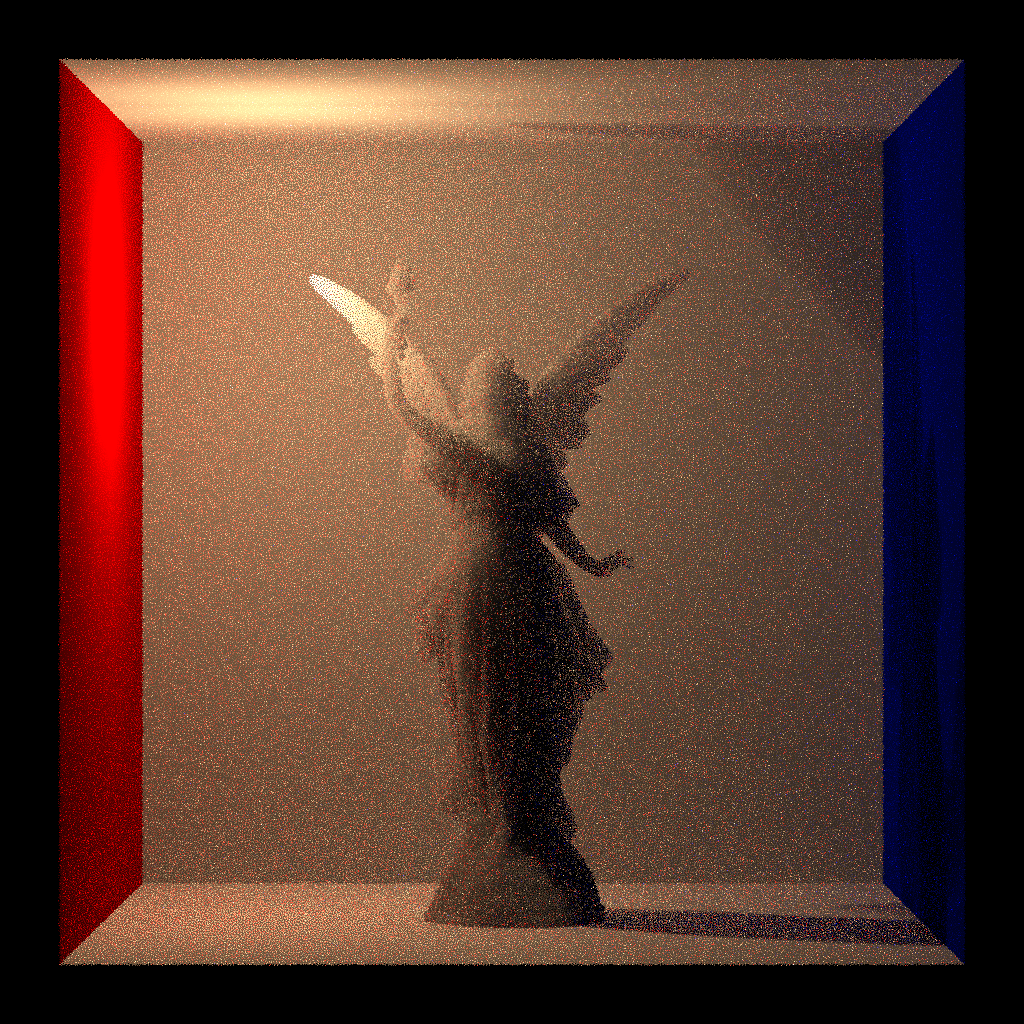
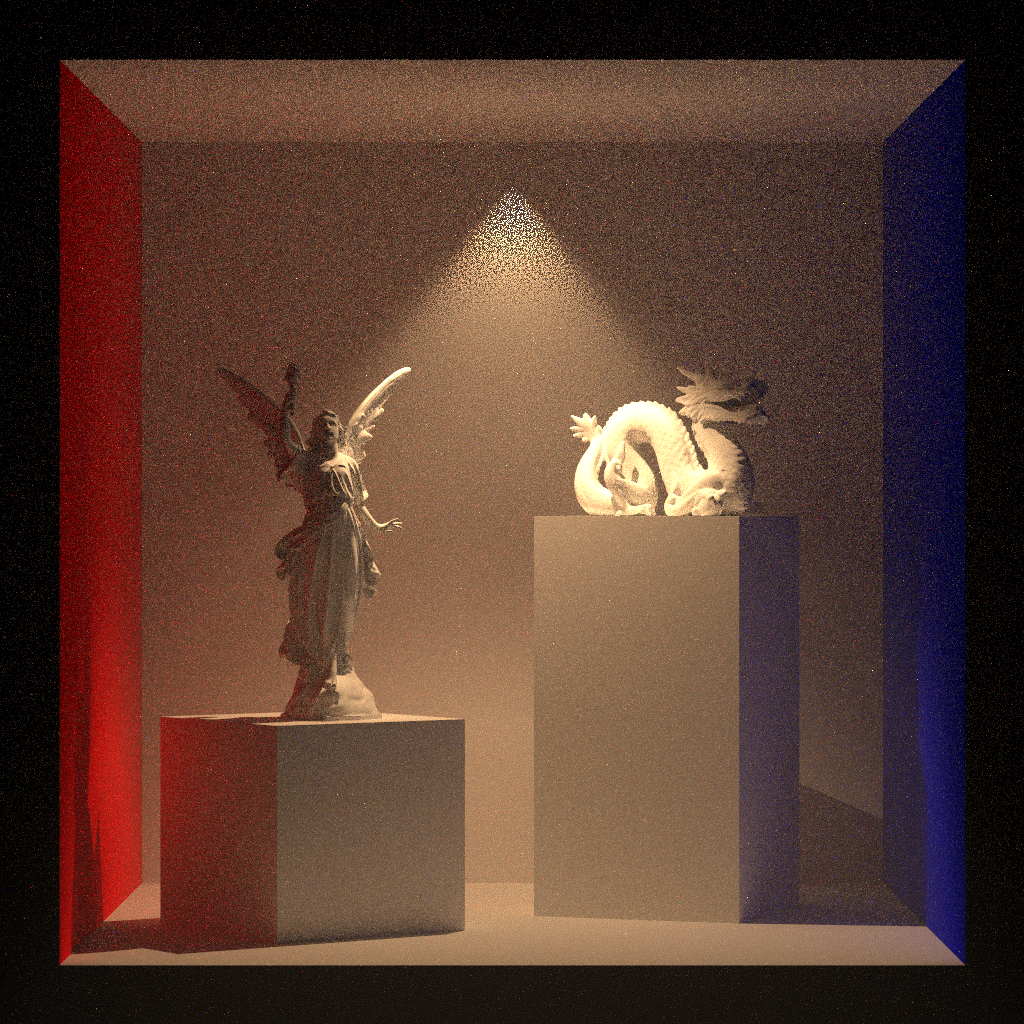
spotlights

diff --git a/lambda_demo/main.cpp b/lambda_demo/main.cpp
@@ -30,6 +30,7 @@ It briefly runs over:
 #include <lighting/MeshLight.h>
 #include <lighting/EnvironmentLight.h>
 #include <lighting/PointLight.h>
+#include <lighting/Spotlight.h>
 #include <render/MosaicRenderer.h>
 #include <utility/Memory.h>
 #include <image/processing/PostProcessing.h>
@@ -122,8 +123,8 @@ int main() {
 	sg::MixBxDFNode *mixMat = graphArena.New<sg::MixBxDFNode>(&fresBSDF->outputSockets[0], &diffuse->outputSockets[0], &valueNoise->outputSockets[0]);
 
 	//Setup a volumetric medium
-	const Spectrum sigmaA = Spectrum(10);
-	const Spectrum sigmaS = Spectrum(15);
+	const Spectrum sigmaA = Spectrum(.1);
+	const Spectrum sigmaS = Spectrum(.1);
 	std::unique_ptr<Medium> med(new HomogeneousMedium(sigmaA, sigmaS));
 	std::unique_ptr<HenyeyGreenstein> phase(new HenyeyGreenstein);
 	phase->g = 0;
@@ -142,7 +143,7 @@ int main() {
 
 	Material glass_material;
 	glass_material.bxdf = fresBSDF;
-	glass_material.mediaBoundary.interior = med.get();
+	//glass_material.mediaBoundary.interior = med.get();
 	glass_material.BuildSocketMap();
 
 	Material diffuse_material2;
@@ -155,7 +156,7 @@ int main() {
 
 	//Import an asset using an AssetImporter object
 	AssetImporter ai;
-	ai.Import("../content/lucy.obj");
+	ai.Import("../content/box_artifacts.obj");
 
 	//Push the mesh objects to the resource manager...
 	ai.PushToResourceManager(&resources, (ImportOptions)(IMP_MESHES));
@@ -163,7 +164,7 @@ int main() {
 	//...and add all the meshes from that asset
 	for (auto &it : resources.objectPool.pool) {
 		//it.second->material = MaterialImport::GetMaterial(ai.scene, &resources, it.first);
-		it.second->material = &volume_scatter_material;
+		it.second->material = &diffuse_material2;
 		scene.AddObject(it.second);
 	}
 
@@ -179,17 +180,17 @@ int main() {
 	scene.hasVolumes = true;
 
 	//Import another asset file
-	ai.Import("../content/box_empty.obj");
+	//ai.Import("../content/box_artifacts.obj");
 
 	//You can manually make a new mesh object that isn't owned...
-	TriangleMesh plane;
+	//TriangleMesh plane;
 	//...and then manually load vertex data into from Assimp scene class
-	MeshImport::LoadMeshVertexBuffers(ai.scene->mMeshes[0], &plane);
-	plane.material = &diffuse_material2;
-	plane.smoothNormals = false;
+	//MeshImport::LoadMeshVertexBuffers(ai.scene->mMeshes[0], &plane);
+	//plane.material = &diffuse_material2;
+	//plane.smoothNormals = false;
 	
 	//Add it to the scene
-	scene.AddObject(&plane);
+	//scene.AddObject(&plane);
 
 	//Setup a mesh light in a similar way
 	ai.Import("../content/box_light_2.obj");
@@ -202,7 +203,7 @@ int main() {
 	MeshImport::LoadMeshVertexBuffers(ai.scene->mMeshes[0], &boundsMesh);
 	boundsMesh.material = &volume_scatter_material;
 
-	//scene.AddObject(&boundsMesh);
+	scene.AddObject(&boundsMesh);
 
 	//Release the asset importer to save some memory
 	ai.Release();
@@ -215,8 +216,8 @@ int main() {
 	//Construct a light from the light mesh.
 	//The light will automatically be assigned the material of the mesh object.
 	//MeshLight light(&lightMesh);
-	PointLight light;
-	light.position = { .6,1.5,0 };
+	Spotlight light({ 0,1.8,0 }, {0,-1,0}, PI * .3, PI * .2);
+	light.position = { 0,1.8,0 };
 
 	//Setup the light's emission using a shader graph...
 	sg::ScalarInput *temp1 = graphArena.New<sg::ScalarInput>(3500);
@@ -225,7 +226,7 @@ int main() {
 	//Set the lights emission socket to the blackbody output socket
 	light.emission = &blckInpt1->outputSockets[0];
 	//Give the light an intensity (will be shader graph compatible in future)
-	light.intensity = 2;
+	light.intensity = 14;
 
 	//Add it to the scene - the associated light object will be added to scene.lights automatically
 	scene.AddLight(&light);
@@ -234,7 +235,7 @@ int main() {
 	//Make environment lighting
 	Texture envMap;
 	envMap.interpolationMode = InterpolationMode::INTERP_NEAREST;
-	envMap.LoadImageFile("demo_content/autumn_park_2k.hdr");
+	envMap.LoadImageFile("../content/sunset_in_the_chalk_quarry_4k.hdr");
 	//Shader graph currently not supported on environment lights
 	EnvironmentLight ibl(&envMap);
 	ibl.intensity = 0;
@@ -266,7 +267,7 @@ int main() {
 
 
 	//Construct a camera with a circular aperture of size .03 world units
-	CircularAperture aperture2(0.03);
+	CircularAperture aperture2(0.0);
 	ThinLensCamera cam(Vec3(0, 1, 10), film.filmData.GetWidth(), film.filmData.GetHeight(), 10, &aperture2);
 	//Set focus to 10 units infront of camera
 	cam.focalLength = 10;

diff --git a/src/lighting/Spotlight.cpp b/src/lighting/Spotlight.cpp
@@ -3,6 +3,7 @@
 LAMBDA_BEGIN
 
 Spotlight::Spotlight() {
+	position = Vec3(0, 0, 0);
 	axis = Vec3(0, -1, 0);
 	cosConeAngle = std::cos(PI * .5);
 	cosFalloffStart = std::cos(PI * .4);
@@ -10,8 +11,56 @@ Spotlight::Spotlight() {
 	emission = nullptr;
 }
 
-Spotlight::Spotlight(const Vec3 &_axis, const Real _coneAngle, const Real _falloffStart) {
+Spotlight::Spotlight(const Vec3 &_position, const Vec3 &_axis, const Real _coneAngle, const Real _falloffStart) : Spotlight() {
+	position = _position;
+	axis = _axis;
+	cosConeAngle = std::cos(_coneAngle);
+	cosFalloffStart = std::cos(_falloffStart);
+}
 
+Real Spotlight::Falloff(const Vec3 &_w) const {
+	const Real cosTheta = maths::Dot(_w, axis);
+	if (cosTheta < cosConeAngle) return 0;
+	if (cosTheta > cosFalloffStart) return 1;
+	const Real d = (cosTheta - cosConeAngle) / (cosFalloffStart - cosConeAngle);
+	return (d * d) * (d * d);
+}
+
+Spectrum Spotlight::Sample_Li(ScatterEvent &_event, Sampler *_sampler, Real &_pdf) const {
+	const Vec3 p = _event.hit->point + _event.hit->normalG * SURFACE_EPSILON * _event.sidedness;
+	Spectrum Tr(1);
+	if (PointMutualVisibility(p, position, _event, *_event.scene, *_sampler, &Tr)) {
+		_pdf = 1;
+		const Real dist2 = maths::DistSq(position, _event.hit->point);
+		_event.wiL = _event.ToLocal(_event.wi);	//Localise the sampled direction, wi, given by PointMutualVisibility()
+		return emission->GetAsSpectrum(_event) * Tr * Falloff(-_event.wi) * intensity / dist2;
+	}
+	_pdf = 0;
+	return Spectrum(0);
+}
+
+Real Spotlight::PDF_Li(const ScatterEvent &_event, Sampler &_sampler) const {
+	return 0;
+}
+
+Real Spotlight::PDF_Li(const ScatterEvent &_event) const {
+	return 0;
+}
+
+Real Spotlight::Irradiance() const {
+	return intensity;
+}
+
+Real Spotlight::Area() const {
+	return PI2 - (1 - (Real).5 * (cosFalloffStart + cosConeAngle));
+}
+
+Bounds Spotlight::GetBounds() const {
+	return Bounds(position);
+}
+
+Vec3 Spotlight::GetDirection() const {
+	return axis;
 }
 
 LAMBDA_END

diff --git a/src/core/Scene.cpp b/src/core/Scene.cpp
@@ -63,7 +63,11 @@ bool Scene::IntersectTr(Ray _r, RayHit &_hit, Sampler &_sampler, Medium *_med, S
 	while (Intersect(_r, _hit)) {
 		tFar += _hit.tFar;
 		bool terminate = tFar > _maxT;
-		if (terminate) tFar -= _maxT - tFar;	//Important for point lights as no intersection will stop the ray
+		if (terminate) { //Important for point lights as no intersection will stop the ray
+			const Real delta = tFar - _maxT;
+			tFar -= delta;
+			_hit.tFar -= delta;
+		}	
 		if ((bool)_med && _Tr) *_Tr *= _med->Tr(_r, _hit.tFar, _sampler);
 		if (terminate || _hit.object->material->bxdf || _hit.object->material->light) {
 			_hit.tFar = tFar;

diff --git a/src/lighting/Spotlight.h b/src/lighting/Spotlight.h
@@ -8,12 +8,17 @@ LAMBDA_BEGIN
 class Spotlight : public Light {
 	public:
 		Real intensity, cosConeAngle, cosFalloffStart;
-		Vec3 axis;
+		Vec3 axis, position;
 		ShaderGraph::Socket *emission;
 
 		Spotlight();
 
-		Spotlight(const Vec3 &_axis, const Real _coneAngle, const Real _falloffStart);
+		Spotlight(const Vec3 &_position, const Vec3 &_axis, const Real _coneAngle, const Real _falloffStart);
+
+		/*
+			Returns intensity factor of point light from direction _w.
+		*/
+		Real Falloff(const Vec3 &_w) const;
 
 		Spectrum Sample_Li(ScatterEvent &_event, Sampler *_sampler, Real &_pdf) const override;
 

diff --git a/src/lighting/PointLight.cpp b/src/lighting/PointLight.cpp
@@ -21,7 +21,7 @@ Spectrum PointLight::Sample_Li(ScatterEvent &_event, Sampler *_sampler, Real &_p
 	if (PointMutualVisibility(p, position, _event, *_event.scene, *_sampler, &Tr)) {
 		_pdf = 1;
 		const Real dist2 = maths::DistSq(position, _event.hit->point);
-		_event.wiL = _event.ToLocal(_event.wi);	//Localise the sampled direction, wi given by MutualVisibility()
+		_event.wiL = _event.ToLocal(_event.wi);	//Localise the sampled direction, wi, given by PointMutualVisibility()
 		return emission->GetAsSpectrum(_event) * Tr * intensity / dist2;
 	}
 	_pdf = 0;
